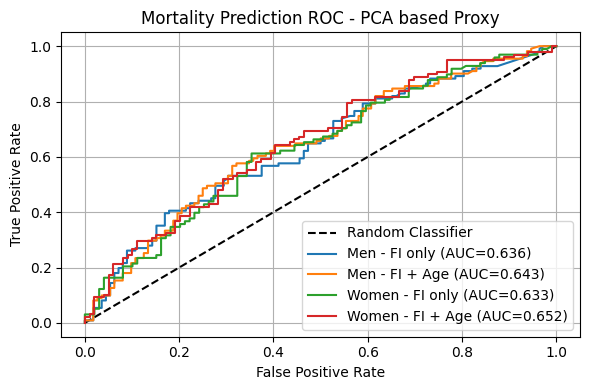
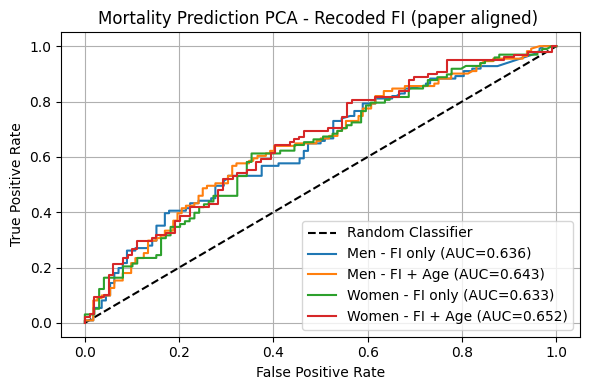
ch4 updated pca

Changed region(s): [[0.1525, 0.0308, 0.9153, 0.0923]]

diff --git a/4_chapter4/chapter4.tex b/4_chapter4/chapter4.tex
@@ -231,9 +231,15 @@ Education & \gls{MOCA} Score & \textbf{Positive (+)}; Third level education and 
 \end{table}
 
 \subsection{Model based validation}
-To evaluate whether the cleaned dataset preserves predictive utility, a constrained replication of \cite{moguilnerImportanceAgePrediction2021} was conducted. The resulting predictive performance for both model variants and sexes is summarised in Table~\ref{tab:model_replication}. The study predicted 8-year mortality using a 32-item \gls{FI}. In the cleaned Wave 1 dataset, only 16 of these 32 \gls{FI} items remained following the manual variable filtering described in Chapter~\ref{ch:chapter3}, which prioritised global numeric consistency across waves.
+To evaluate whether the cleaned dataset preserves predictive utility, a constrained replication of \cite{moguilnerImportanceAgePrediction2021} was conducted. The resulting predictive performance for both model variants and sexes is shown in the following Figure~\ref{fig:roc_cleaned_fi_pca}. The study predicted 8-year mortality using a 32-item \gls{FI}. In the cleaned Wave 1 dataset, only 16 of these 32 \gls{FI} items remained following the manual variable filtering described in Chapter~\ref{ch:chapter3}, which prioritised global numeric consistency across waves.
 
-A `\texttt{8y\_mortality\_proxy}' outcome was constructed to approximate the sex specific 8-year mortality rates reported in \cite{moguilnerImportanceAgePrediction2021} (men: $14.9\%$, women: $11.1\%$) as observed via linkage to Ireland’s Central Register Office records \cite{wardLinkingDeathRegistration2020a}. Due to access restrictions, the official mortality data were unavailable; therefore, the proxy was created by randomly selecting deceased participants from the Wave 1 cohort aged 50 or older to match these percentages observed at Wave 5 follow up, and randomly sampling an equal number of alive participants to generate a balanced dataset for model training. The resulting datasets included 1,114 men (557 deceased) and 982 women (491 deceased), reflecting the baseline distribution of the Wave 1 participants ($\ge50$ years) = 8,172: 3,743 men and 4,429 women. This proxy serves a diagnostic role: although it does not replicate true mortality events, it allows evaluation of whether numerical relationships and predictive information are preserved in the cleaned data.
+An \texttt{8y\_mortality\_proxy} outcome was constructed to approximate the sex specific 8-year mortality rates reported in \cite{moguilnerImportanceAgePrediction2021} (men: $14.9\%$, women: $11.1\%$), derived from linkage to Ireland’s Central Register Office records \cite{wardLinkingDeathRegistration2020a}. Due to access restrictions, the official mortality data were unavailable. Therefore, mortality status was first assigned by randomly selecting deceased participants from the Wave 1 cohort aged 50 years or older to match the published sex specific mortality proportions observed at Wave 5 follow up. An equal number of surviving participants were then randomly sampled within each sex to construct balanced datasets for model training. The resulting random proxy datasets included 1,114 men (557 deceased) and 982 women (491 deceased), reflecting the baseline Wave 1 population aged $\ge 50$ years ($n = 8,172$: 3,743 men and 4,429 women). 
+
+Two variants of this proxy were implemented: (i) the purely random assignment described above, used as a structural baseline, and (ii) a biologically informed probabilistic assignment that leverages latent frailty captured via \gls{PCA}. This dual construction allowed separation of statistical artefact from biologically meaningful signal. 
+
+The random proxy provides an initial diagnostic benchmark: mortality labels were assigned using purely random sampling within each sex to match the published 8-year mortality proportions. While this preserves overall class balance, it does not encode any biological or frailty related information and therefore serves only as a structural validation baseline.
+
+For the biologically informed proxy, the 16 available \gls{FI} items were standardised to zero mean and unit variance using z-score transformation. \gls{PCA} was then performed separately within each sex on complete case observations to extract the principal component representing the dominant latent frailty structure. The \gls{PC1} was retained as a latent frailty score, and its direction was aligned such that higher \gls{PC1} scores correspond to higher frailty by enforcing a positive correlation with the calculated \gls{FI}. This latent frailty score was subsequently combined with age to construct a probabilistic mortality assignment reflecting both biological vulnerability and time dependent risk.
 
 Two model variants were tested for each sex:
 \begin{enumerate}
@@ -242,33 +248,65 @@ Two model variants were tested for each sex:
 \end{enumerate}
 Model training and evaluation followed the procedure reported in \cite{moguilnerImportanceAgePrediction2021} as closely as permitted by the available data. Features were min--max normalised prior to modelling. For each sex, data were split into training $(80\%)$ and testing $(20\%)$ sets. To mitigate overfitting and obtain robust estimates of model performance, 5-fold stratified cross-validation was applied on the training data. \gls{AUC} was selected as the primary evaluation metric due to its widespread use in prior \gls{TILDA} and \gls{ML} based studies (Figure~\ref{fig:prisma}) and its robustness to class imbalance.
 
-For six \gls{FI} items (\texttt{mh0014}, \texttt{ph001}, \texttt{ph102}, \texttt{ph108}, \texttt{ph114}, \texttt{bh201}), the cleaned dataset transformations differed from the scoring rules published in \cite{moguilnerImportanceAgePrediction2021}. To align precisely with the original 16/32-item \gls{FI} methodology, these items were recoded following the published ordinal and dichotomous mappings. This step was necessary to ensure that the partially remapped \gls{FI} reflects the same interpretation of health deficits used in the literature and is consistent with standard \gls{FI} construction principles \cite{searleStandardProcedureCreating2008}. Models were then re-evaluated using this partial remapping \gls{FI} to assess sensitivity to feature encoding.
+For six \gls{FI} items (\texttt{mh0014}, \texttt{ph001}, \texttt{ph102}, \texttt{ph108}, \texttt{ph114}, \texttt{bh201}), the cleaned dataset transformations differed from the scoring rules published in \cite{moguilnerImportanceAgePrediction2021}. To align precisely with the original 16/32-item \gls{FI} methodology, these items were recoded following the published ordinal and dichotomous mappings. This step was necessary to ensure that the six remapped \gls{FI} items reflects the same interpretation of health deficits used in the literature and is consistent with standard \gls{FI} construction principles \cite{searleStandardProcedureCreating2008}. Models were then re-evaluated using this partial remapping \gls{FI} to assess sensitivity to feature encoding.
 
-\begin{table}[htbp]
+The resulting \gls{AUC} values are reported separately for (i) cleaned (Figure~\ref{fig:roc_cleaned_fi_pca}) vs 6/16 recoded \gls{FI} (Figure~\ref{fig:roc_recoded_fi_pca}), (ii) random vs \gls{PCA} informed mortality assignment, (iii) \gls{FI} only vs \gls{FI} $+$ Age models, and (iv) men and women.
+
+\begin{figure}[htbp]
+\includegraphics[width=0.8\textwidth]{cleaned_FI_PCA.png}
+\caption{ROC curves for mortality prediction using the cleaned 16-item \gls{FI} under the \gls{PCA} informed mortality proxy. Separate models are shown for men and women, with and without age.}
+\label{fig:roc_cleaned_fi_pca}
+\end{figure}   
+\begin{figure}[htbp]
 \centering
-\caption{Model replication results: comparison of predictive performance using the cleaned and 6 recoded \gls{FI} features with the constructed \texttt{8y\_mortality\_proxy}.}
-\label{tab:model_replication}
-\small
-\begin{tabular}{|l|cc|cc|}
-\hline
-\multirow{2}{*}{\textbf{Model}} &
-\multicolumn{2}{c|}{\textbf{Cleaned FI (16 items)}} &
-\multicolumn{2}{c|}{\textbf{Recoded FI (paper\cite{moguilnerImportanceAgePrediction2021} aligned)}} \\
-\cline{2-5}
-& \textbf{Men AUC} & \textbf{Women AUC} & \textbf{Men AUC} & \textbf{Women AUC} \\
-\hline
-FI-only & 0.5068 & 0.5118 & 0.5672 & 0.5368 \\
-FI + Age & 0.5156 & 0.5312 & 0.5723 & 0.6052 \\
-\hline
-\end{tabular}
-\end{table}
+\includegraphics[width=0.8\textwidth]{recoded_6FI_PCA.png}
+\caption{ROC curves for mortality prediction using the 6/16 recoded \gls{FI} items aligned with \cite{moguilnerImportanceAgePrediction2021}. Performance is shown separately for men and women, with and without age.}
+\label{fig:roc_recoded_fi_pca}
+\end{figure}
+
+% \begin{table}[htbp]
+% \centering
+% \caption{Model replication results: comparison of predictive performance using the cleaned and 6 recoded \gls{FI} features with the constructed \texttt{8y\_mortality\_proxy}.}
+% \label{tab:model_replication}
+% \small
+% \begin{tabular}{|l|cc|cc|}
+% \hline
+% \multirow{2}{*}{\textbf{Model}} &
+% \multicolumn{2}{c|}{\textbf{Cleaned FI (16 items)}} &
+% \multicolumn{2}{c|}{\textbf{Recoded FI (paper\cite{moguilnerImportanceAgePrediction2021} aligned)}} \\
+% \cline{2-5}
+% & \textbf{Men AUC} & \textbf{Women AUC} & \textbf{Men AUC} & \textbf{Women AUC} \\
+% \hline
+% FI-only & 0.5068 & 0.5118 & 0.5672 & 0.5368 \\
+% FI + Age & 0.5156 & 0.5312 & 0.5723 & 0.6052 \\
+% \hline
+% \end{tabular}
+% \end{table}
+
+% These results highlight several key points:
+% \begin{enumerate}
+%     \item Despite relying on a reduced subset of the original 32 \gls{FI} items (16 available in the cleaned dataset), the \texttt{8y\_mortality\_proxy} models reflect expected trends. In particular, the \gls{AUC}s for the \gls{FI} only model (men: 0.507, women: 0.512) are lower than those reported by \cite{moguilnerImportanceAgePrediction2021} (men: 0.70, women: 0.70), which is consistent with the use of a proxy mortality outcome for participants. Including age improves predictive performance (men: 0.516, women: 0.531), reproducing the pattern observed in the original study (men: 0.80, women: 0.90). The sex specific distributions \gls{FI} in our dataset (men: 0.2254–0.2258, women: 0.243–0.258 across alive/deceased) are broadly aligned with the published values (men: 0.11, women: 0.13).
+%     \item Re-mapping the six items to match the \cite{moguilnerImportanceAgePrediction2021} \gls{FI} scoring yielded modest increases in \gls{AUC} scores (men: 0.567, women: 0.537 for \gls{FI} only; men: 0.572, women: 0.605 for \gls{FI} + age), illustrating that partial recoding restores some of the predictive information lost during initial variable filtering. This highlights the sensitivity of predictive performance to encoding choices and demonstrates that oversimplified $0-1$ scaling of metrics with scientifically constrained ranges, such as \gls{FI} where 0 indicates minimal deficits and 1 indicates maximal deficits, can distort interpretation and compromise the meaningfulness of derived scores.
+%     \item The cleaning pipeline successfully produced a fully numeric dataset suitable for downstream machine learning while maintaining sample characteristics close to the original cohort. Total participants over the age of 50 with a sex distribution of 45.8\% men and 54.2\% women, and expected deaths based on published rates of 14.9\% (men) and 11.1\% (women), confirming that the preprocessing and filtering preserved key demographic and outcome structures.
+% \end{enumerate}
 
 These results highlight several key points:
 \begin{enumerate}
-    \item Despite relying on a reduced subset of the original 32 \gls{FI} items (16 available in the cleaned dataset), the \texttt{8y\_mortality\_proxy} models reflect expected trends. In particular, the \gls{AUC}s for the \gls{FI} only model (men: 0.507, women: 0.512) are lower than those reported by \cite{moguilnerImportanceAgePrediction2021} (men: 0.70, women: 0.70), which is consistent with the use of a proxy mortality outcome for participants. Including age improves predictive performance (men: 0.516, women: 0.531), reproducing the pattern observed in the original study (men: 0.80, women: 0.90). The sex specific distributions \gls{FI} in our dataset (men: 0.2254–0.2258, women: 0.243–0.258 across alive/deceased) are broadly aligned with the published values (men: 0.11, women: 0.13).
-    \item Re-mapping the six items to match the \cite{moguilnerImportanceAgePrediction2021} \gls{FI} scoring yielded modest increases in \gls{AUC} scores (men: 0.567, women: 0.537 for \gls{FI} only; men: 0.572, women: 0.605 for \gls{FI} + age), illustrating that partial recoding restores some of the predictive information lost during initial variable filtering. This highlights the sensitivity of predictive performance to encoding choices and demonstrates that oversimplified $0-1$ scaling of metrics with scientifically constrained ranges, such as \gls{FI} where 0 indicates minimal deficits and 1 indicates maximal deficits, can distort interpretation and compromise the meaningfulness of derived scores.
-    \item The cleaning pipeline successfully produced a fully numeric dataset suitable for downstream machine learning while maintaining sample characteristics close to the original cohort. Total participants over the age of 50 with a sex distribution of 45.8\% men and 54.2\% women, and expected deaths based on published rates of 14.9\% (men) and 11.1\% (women), confirming that the preprocessing and filtering preserved key demographic and outcome structures.
+\item \textbf{Random proxy baseline (cleaned vs recoded \gls{FI}):}  
+Under purely random mortality assignment, discrimination remained at chance level for both versions of the \gls{FI}. For the cleaned 16-item \gls{FI}, the \gls{FI}-only model achieved \gls{AUC} = 0.507 (men) and 0.512 (women), increasing marginally to 0.516 (men) and 0.531 (women) when age was included. When six of the sixteen available deficits were recoded to align with the published \gls{FI} scoring rules \cite{moguilnerImportanceAgePrediction2021}, the \gls{AUC} values increased to 0.567 (men) and 0.537 (women) for the \gls{FI} only model, and to 0.572 (men) and 0.605 (women) for the \gls{FI} $+$ Age model. Despite this increase relative to the fully cleaned encoding, discrimination remained close to chance under random label assignment.
+
+These results confirm that, without embedding biological frailty structure into the outcome, predictive performance reflects statistical noise rather than meaningful signal, regardless of encoding refinement.
+\item \textbf{\gls{PCA} informed mortality proxy (cleaned vs recoded \gls{FI}):}  
+When mortality assignment incorporated the \gls{PCA}-derived frailty representation \gls{PC1}, discrimination improved relative to the random baseline for both \gls{FI} constructions. For the cleaned 16-item \gls{FI}, the \gls{FI}-only model achieved \gls{AUC} = 0.591 (men) and 0.667 (women), increasing to 0.602 (men) and 0.660 (women) when age was included.
+When six of the sixteen deficits were recoded in accordance with the published scoring framework, the \gls{FI}-only model achieved \gls{AUC} = 0.636 (men) and 0.633 (women), while the \gls{FI} $+$ age model achieved 0.643 (men) and 0.652 (women).
+
+This indicates that closer alignment with published ordinal deficit scoring improves discriminative stable performance relative to the simplified numeric encoding applied during initial cleaning.
+\item \textbf{Comparison with published performance:}  
+Absolute \gls{AUC} values remain below those reported in \cite{moguilnerImportanceAgePrediction2021} (approximately 0.70 for \gls{FI}-only and up to 0.80–0.90 when age is included), which is expected given the use of a constructed mortality proxy and only 16 of the original 32 \gls{FI} items. Nevertheless, the methodological sequence reported in the original study is preserved: (i) random assignment yields chance level performance, (ii) extracting latent frailty structure via \gls{PCA} improves discrimination, and (iii) inclusion of age generally improved mortality prediction. Importantly, the cleaned dataset maintains realistic sex distributions (45.8\% men, 54.2\% women) and mortality proportions consistent with published estimates, confirming that preprocessing preserved demographic and structural integrity required for downstream modelling.
 \end{enumerate}
+
+% Forward reference to Appendix for PCA loading heatmap
+A detailed PCA loading heatmap illustrating the contribution of individual \gls{FI} items to \gls{PC1} is provided in Appendix~\ref{app:pca_heatmap_placeholder}.
 
 % ---------------------------------------------------------------------------
 % ----------------------- end of thesis sub-document ------------------------

diff --git a/0_frontmatter/glossary.tex b/0_frontmatter/glossary.tex
@@ -106,6 +106,7 @@
 \newacronym{AUROC}{AUROC}{Area Under the Receiver Operating Characteristic Curve}
 \newacronym{SHAP}{SHAP}{Shapley Additive Explanations}
 \newacronym{PCA}{PCA}{Principal Component Analysis}
+\newacronym{PC1}{PC1}{First Principal Component}
 
 % ----------------------- code ------------------------
 \newacronym{JSON}{JSON}{JavaScript Object Notation}